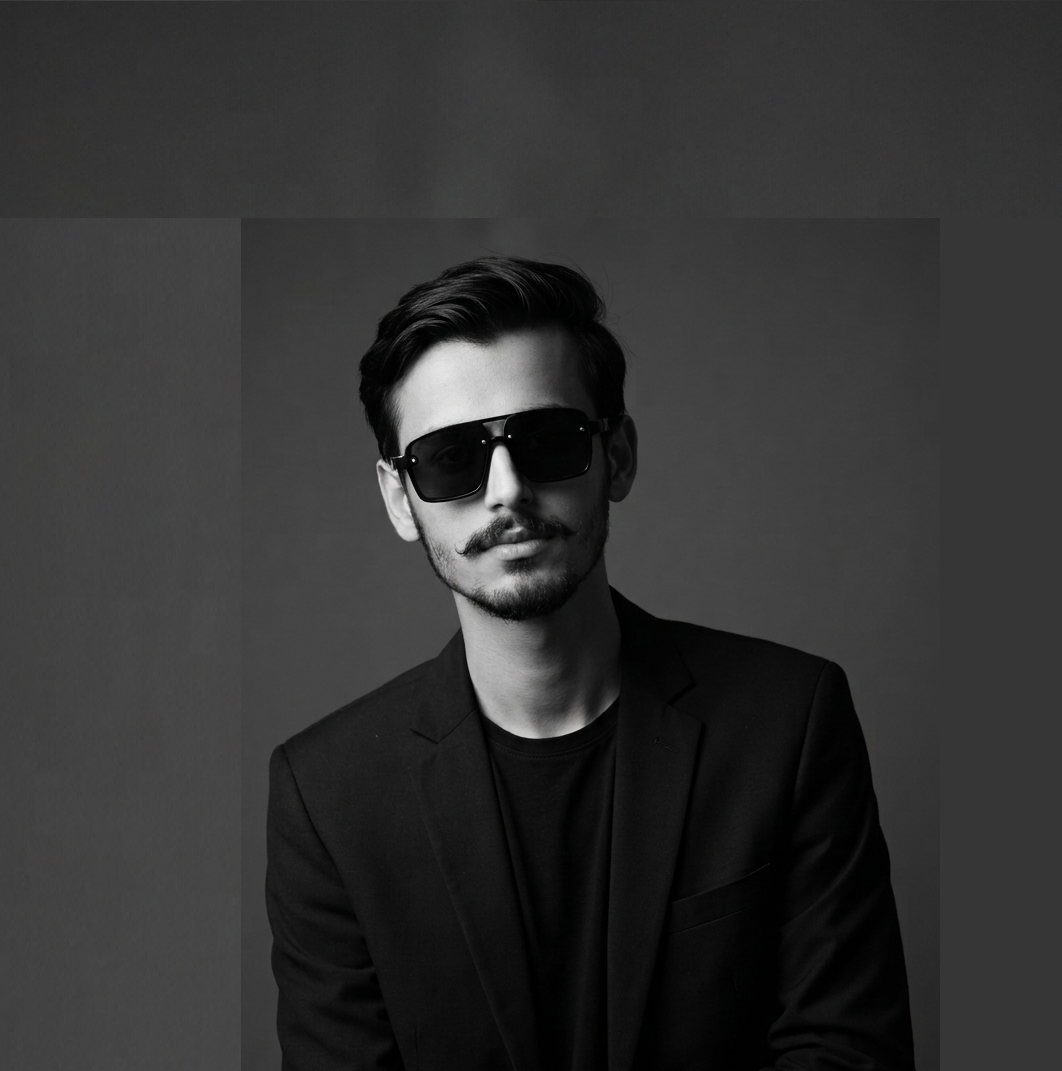
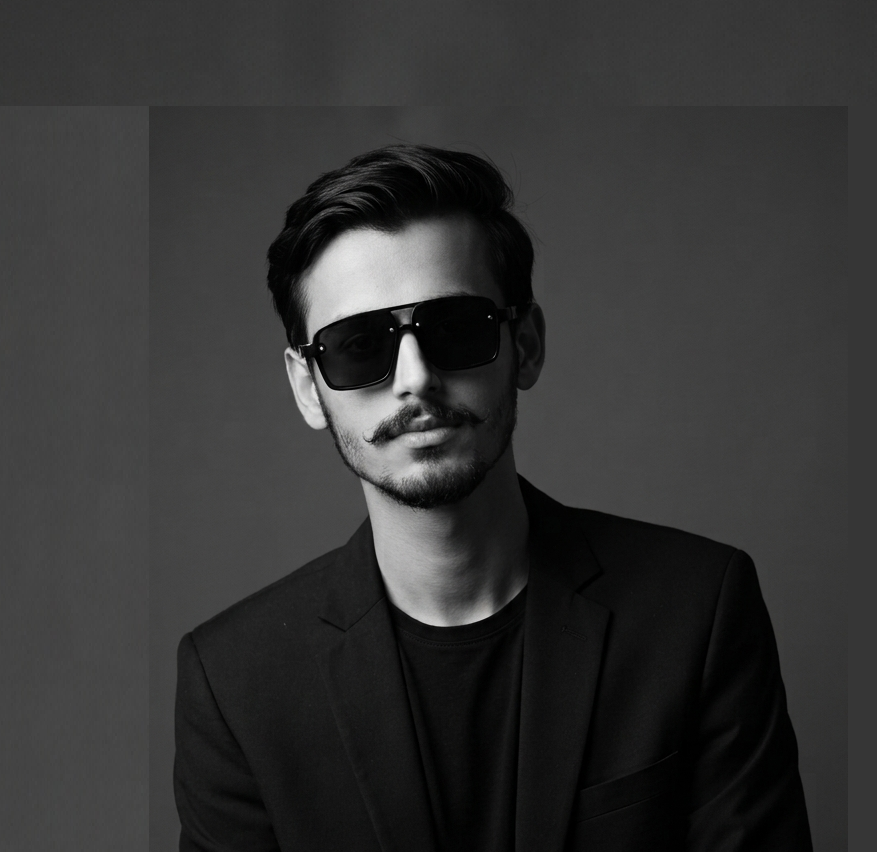
Update useNav

diff --git a/hooks/useNavbar.ts b/hooks/useNavbar.ts
@@ -9,6 +9,7 @@ export default function useNavbar() {
 
   const active = useActiveSection();
 
+  // Navbar background on scroll
   useEffect(() => {
     const handleScroll = () => {
       setScrolled(window.scrollY > 40);
@@ -18,9 +19,22 @@ export default function useNavbar() {
 
     window.addEventListener("scroll", handleScroll);
 
-    return () => {
+    return () =>
       window.removeEventListener("scroll", handleScroll);
+  }, []);
+
+  // Close mobile menu when screen becomes desktop
+  useEffect(() => {
+    const handleResize = () => {
+      if (window.innerWidth >= 1024) {
+        setMobileMenu(false);
+      }
     };
+
+    window.addEventListener("resize", handleResize);
+
+    return () =>
+      window.removeEventListener("resize", handleResize);
   }, []);
 
   return {